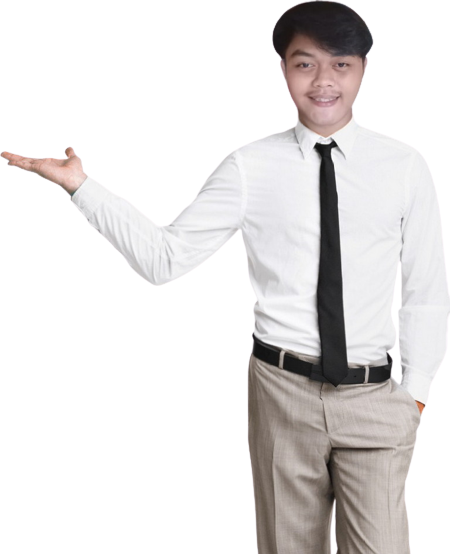
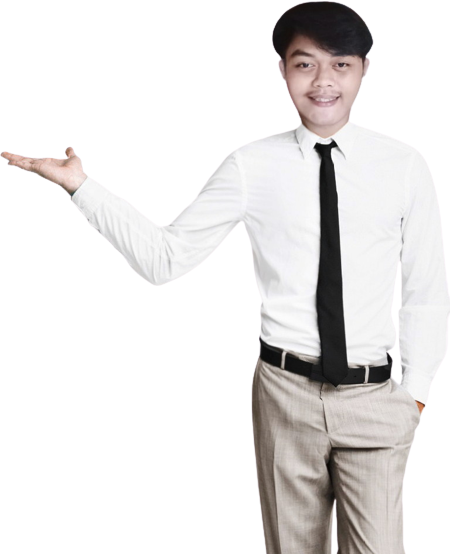
cpanelyml

diff --git a/index.html b/index.html
@@ -134,9 +134,10 @@
         <section id="about" class="site-section section-about text-center">
             <div class="container">
                 <div class="row">
-                    <div class="col-md-6 col-md-offset-3">
+                  <div class="col-md-6 col-md-offset-3 text-center">
                         <h2>Tentang Saya</h2>
                         <br>
+                        <div class="image-container">
                         <img src="assets/img/bagas3.jpg" class="img-lines" alt="" style="width: 50%; max-width: 280px; border-radius: 40%;"> 
                         <p>Halo perkenalkan nama saya Bagas Taufikqurrahman, biasa di sapa dengan nama panggilan bagas. 
                           Saya adalah seseorang yang pernah bekerja sebagai frontliner dan pelayan restoran, yang telah mengasah kemampuan komunikasi dan keramahan saya. 
@@ -160,7 +161,7 @@
               <div class="row">
                   <div class="col-md-12">
                       <h3>Yang Saya Pelajari</h3>
-                      <img src="assets/img/lines.svg" class="img-lines" alt="lines">
+                      <img src="assets/img/lines.svg" class="img-lines" alt="lines" style="width: 400px;">
                   </div>
                   <div class="col-sm-4">
                       <div class="service">
@@ -196,7 +197,7 @@
             <div class="container">
                 <div class="text-center">
                     <h3>portofolio</h3>
-                    <img src="assets/img/lines.svg" class="img-lines" alt="lines">
+                    <img src="assets/img/lines.svg" class="img-lines" alt="lines" style="width: 400px;">
                 </div>
                 <div class="row">
                     <div class="col-md-4 col-xs-6">
@@ -250,22 +251,24 @@
             <div class="container">
                 <h3>Contact Me</h3>
                 
-                <img src="assets/img/bagas.jpg" class="img-lines" alt="" style="width: 50%; max-width: 300px; border-radius: 40%;">
+                <img src="assets/img/bagas.jpg" class="img-lines" alt="" style="width: 90%; max-width: 249px; border-radius: 40%;">
                 <br> 
                 <form>
                   <div class="row">
                     <div class="col-sm-12">
 
                       <p><strong>Pilih dan klik akun sosial media saya di bawah ini :</strong></p>
-                      <a href="https://instagram.com/bagastaufik_?igshid=cW93Zm40d2Rzb3Vh" target="_blank">
-                        <img src="./assets/img/instagram.png" alt="Instagram" style="width: 50px; height: 50px; margin-right: 10px;">
+                      <a href="https://instagram.com/bagastaufik_?igshid=cW93Zm40d2Rzb3Vh" target="_blank" class="social-link" id="instagram-link">
+                        <img src="./assets/img/instagram.png" alt="Instagram" class="social-icon">
                       </a>
-                      <a href="https://www.facebook.com/bagas.naxsragen?mibextid=ZbWKwL" target="_blank">
-                        <img src="./assets/img/facebook.png" alt="Facebook" style="width: 50px; height: 50px; margin-right: 10px;">
+                      <a href="https://www.facebook.com/bagas.naxsragen?mibextid=ZbWKwL" target="_blank" class="social-link" id="facebook-link">
+                        <img src="./assets/img/facebook.png" alt="Facebook" class="social-icon">
                       </a>
-                      <a href="https://wa.me/089662947209" target="_blank">
-                        <img src="./assets/img/whatsapp.png" alt="WhatsApp" style="width: 50px; height: 50px; margin-right: 10px;">
+                      <a href="https://wa.me/089662947209" target="_blank" class="social-link" id="whatsapp-link">
+                        <img src="./assets/img/whatsapp.png" alt="WhatsApp" class="social-icon">
                       </a>
+                      
+
                     </div>
                   </div>
                   
@@ -294,7 +297,7 @@
     </style>
     <footer>
       <div class="card">
-        <p>&copy; 2023 Bagas Taufikqurrahman. Copyright Protection</p>
+        <p>&copy; 2023 Bagas Taufikqurrahman. Copyright Protection.</p>
       </div>
     </footer>
 

diff --git a/assets/css/style.css b/assets/css/style.css
@@ -130,6 +130,8 @@ textarea {
     font-size: 16px;
 }
 
+
+
 /* LAYOUT
 ================================================== */
 html, body {
@@ -138,9 +140,29 @@ html, body {
     margin: 0;
     padding: 0;
     font-family: 'Open Sans', sans-serif;
-    font-size: 13px;
+    font-size: 16px;
     color: #212121;
 }
+
+/*Mengatur font bagian Tentang Saya*/
+body {
+      font-family: 'Arial', sans-serif; /* Font default untuk seluruh halaman */
+    }
+
+    h2 {
+      font-family:'Franklin Gothic Medium', 'Arial Narrow', Arial, sans-serif; /* Font khusus untuk elemen h2 */
+      color: #000000; /* Contoh penambahan warna teks */
+    }
+
+/*Mengatur font bagian Tentang Saya*/
+body {
+    font-family: 'Arial', sans-serif; /* Font default untuk seluruh halaman */
+  }
+
+  h3 {
+    font-family:'Franklin Gothic Medium', 'Arial Narrow', Arial, sans-serif; /* Font khusus untuk elemen h2 */
+    color: #000000; /* Contoh penambahan warna teks */
+  }
 
 .img-res {
     display: block;
@@ -443,6 +465,28 @@ html, body {
     margin-top: 10px;
 }
 
+/*Mengatur icon sosmed*/
+@keyframes blink {
+    0%, 50%, 100% {
+      opacity: 1;
+    }
+    25%, 75% {
+      opacity: 0;
+    }
+  }
+  
+  .social-link {
+    display: inline-block;
+    margin-right: 10px;
+    animation: blink 4s infinite; /* Animasi berkedip selama 1 detik secara terus-menerus */
+  }
+  
+  .social-icon {
+    width: 40px;
+    height: 40px;
+  }
+  
+  
 /* Modal */
 .modal {
     z-index: 9999;

diff --git a/assets/css/responsive.css b/assets/css/responsive.css
@@ -334,8 +334,15 @@
 	}
 
 	.img-lines {
-	    margin: 10px 0 30px;
+	    margin: 5px 0 40px;
 	}
+
+	.img-lines {
+		width: 300px; /* Sesuaikan dengan nilai yang diinginkan, bisa berupa piksel atau persentase */
+		height: auto; /* Untuk menjaga aspek ratio gambar tetap proporsional */
+		max-width: 100%; /* Untuk memastikan gambar tidak melebihi lebar kontainer induknya */
+	  }
+	  
 
 	.site-section p {
 	    margin-bottom: 25px;
